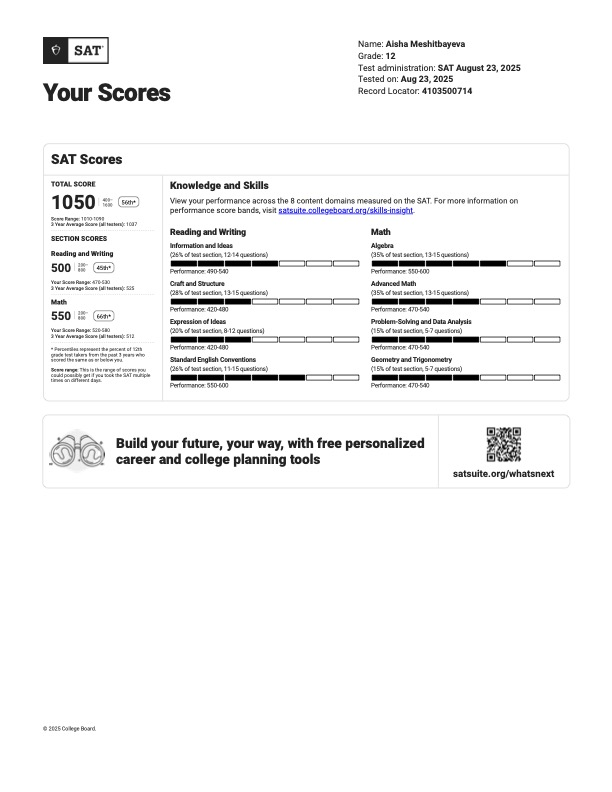
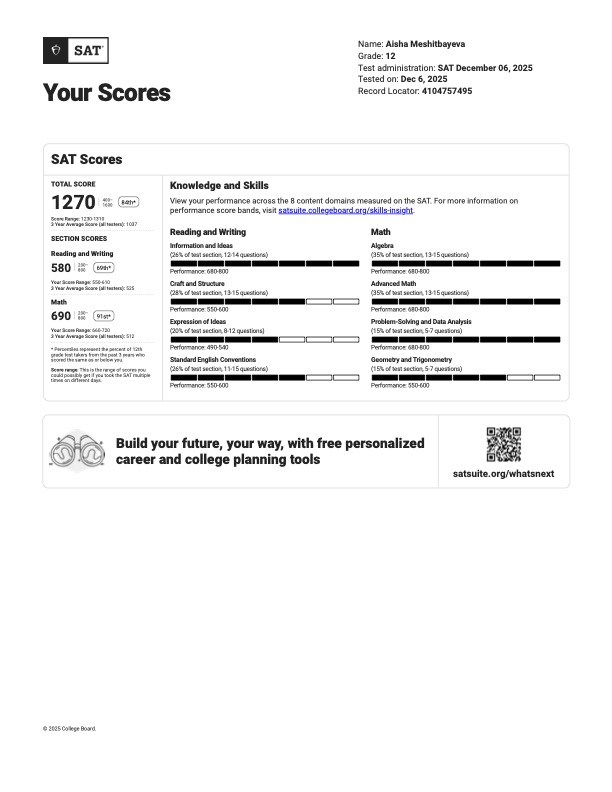
asdf

diff --git a/index.html b/index.html
@@ -1528,7 +1528,7 @@
             <div class="certificate-card" onclick="openModal('images/sat-scores.jpg')">
                 <div class="certificate-badge">2025</div>
                 <div class="certificate-image">
-                    <img src="images/sat-scores.jpg" alt="SAT Scores" onerror="this.style.display='none'; this.parentElement.innerHTML='<div style=\'text-align: center; padding: 2rem; color: #64748b;\'><div style=\'font-size: 3rem; margin-bottom: 1rem;\'>📈</div><p>SAT Score: 1050</p></div>';">
+                    <img src="images/sat-scores.jpg" alt="SAT Scores" onerror="this.style.display='none'; this.parentElement.innerHTML='<div style=\'text-align: center; padding: 2rem; color: #64748b;\'><div style=\'font-size: 3rem; margin-bottom: 1rem;\'>📈</div><p>SAT Score: 1270</p></div>';">
                 </div>
                 <div class="certificate-info">
                     <h4>
@@ -1536,8 +1536,8 @@
                         <span class="inline-lang" data-lang="ru">Результаты SAT</span>
                     </h4>
                     <p>
-                        <span class="inline-lang active" data-lang="en">Total Score: 1050 (56th percentile) - August 2025</span>
-                        <span class="inline-lang" data-lang="ru">Общий балл: 1050 (56-й процентиль) - август 2025</span>
+                        <span class="inline-lang active" data-lang="en">Total Score: 1270 - August 2025</span>
+                        <span class="inline-lang" data-lang="ru">Общий балл: 1270 - август 2025</span>
                     </p>
                 </div>
             </div>
@@ -1641,6 +1641,23 @@
                     <p>
                         <span class="inline-lang active" data-lang="en">Teaching, Education, and Learning - Tokyo 2025</span>
                         <span class="inline-lang" data-lang="ru">Преподавание, образование и обучение - Токио 2025</span>
+                    </p>
+                </div>
+            </div>
+
+            <div class="certificate-card" onclick="openModal('images/unicef.jpg')">
+                <div class="certificate-badge">🌍</div>
+                <div class="certificate-image">
+                    <img src="images/unicef.jpg" alt="UNICEF Certificate" onerror="this.style.display='none'; this.parentElement.innerHTML='<div style=\'text-align: center; padding: 2rem; color: #64748b;\'><div style=\'font-size: 3rem; margin-bottom: 1rem;\'>🌍</div><p>UNICEF</p></div>';">
+                </div>
+                <div class="certificate-info">
+                    <h4>
+                        <span class="inline-lang active" data-lang="en">UNICEF Volunteer</span>
+                        <span class="inline-lang" data-lang="ru">Волонтер ЮНИСЕФ</span>
+                    </h4>
+                    <p>
+                        <span class="inline-lang active" data-lang="en">Volunteer Recognition</span>
+                        <span class="inline-lang" data-lang="ru">Признание волонтерской деятельности</span>
                     </p>
                 </div>
             </div>
